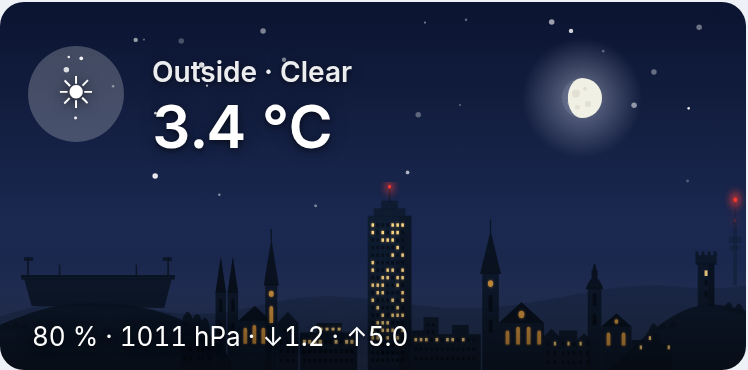
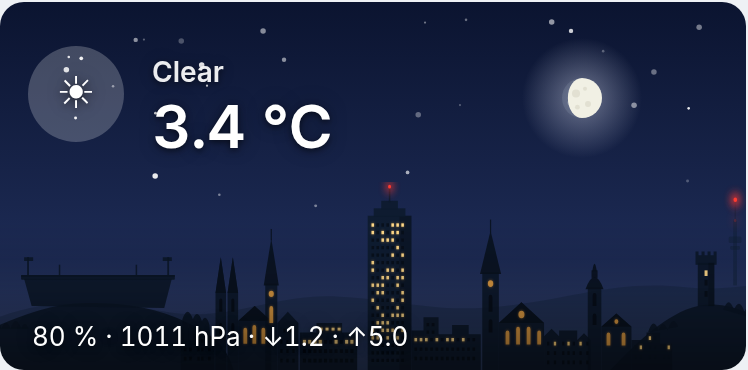
Card title: just the weather, last known weather without a forecast

Changed region(s): [[0.2152, 0.1486, 0.492, 0.2378]]

diff --git a/art/gallery.py b/art/gallery.py
@@ -76,7 +76,7 @@ def card(title, st, note=""):
     w = st["attributes"]["weather"]
     lights = " · windows lit" if st["attributes"]["lights"] else ""
     return (f'<figure class="scene"><div class="card" data-s=\'{json.dumps(st)}\'>'
-            f'<span class="ic">{ICON[w]}</span><span class="nm">Outside · {NAMES[w]}</span>'
+            f'<span class="ic">{ICON[w]}</span><span class="nm">{NAMES[w]}</span>'
             f'<span class="tp">3.4 °C</span><span class="chips">80 % · 1011 hPa · ↓1.2 · ↑5.0</span></div>'
             f'<figcaption><b>{title}</b><code>{st["state"]}</code>{note or lights}</figcaption></figure>')
 

diff --git a/CHANGELOG.md b/CHANGELOG.md
@@ -22,6 +22,10 @@ All notable changes, newest first.
 - `art/gallery.py` (every scene on one page), `scripts/deploy.sh`,
   `scripts/screenshots.js`.
 
+### Changed
+- The card title shows only the weather ("Cloudy", "Snowy" …) instead of
+  "Outside · Cloudy"; without a forecast it shows the last known weather.
+
 ### Under the hood
 - GitHub check: rebuilds the pictures and the card and compares them with
   the committed files; ruff for the Python scripts.
